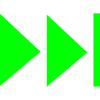
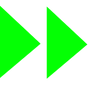
control dock conplete

Changed region(s): [[0.0, 0.0674, 1.0, 0.8989]]

diff --git a/src/gamePlayer/mainClasses/GuiManager.java b/src/gamePlayer/mainClasses/GuiManager.java
@@ -4,14 +4,14 @@ import gameEngine.MainGameManager;
 import gamePlayer.codeWarehouse.SelectTowerListener;
 import gamePlayer.codeWarehouse.StoreListener;
 import gamePlayer.codeWarehouse.TowerPlaceListener;
-import gamePlayer.guiContainers.secondaryContainers.ControlDock;
 import gamePlayer.guiFeatures.FileLoader;
 import gamePlayer.guiFeatures.TowerPlacer;
 import gamePlayer.guiItems.headsUpDisplayB.GameStats;
 import gamePlayer.guiItems.headsUpDisplayB.HUD;
-import gamePlayer.guiItemsListeners.PlayButtonListener;
 import gamePlayer.guiItemsListeners.HUDListener;
 import gamePlayer.guiItemsListeners.HealthListener;
+import gamePlayer.guiItemsListeners.PlayButtonListener;
+import gamePlayer.guiItemsListeners.SpeedButtonListener;
 import gamePlayer.guiItemsListeners.VoogaMenuBarListener;
 import gamePlayer.mainClasses.dummyGameManager.DummyGameManager;
 import gamePlayer.mainClasses.guiBuilder.GuiBuilder;
@@ -32,7 +32,8 @@ import javafx.stage.Stage;
  *
  */
 public class GuiManager implements VoogaMenuBarListener, HUDListener,
-StoreListener, PlayButtonListener, HealthListener, SelectTowerListener, TowerPlaceListener
+StoreListener, PlayButtonListener, HealthListener, SelectTowerListener, TowerPlaceListener,
+SpeedButtonListener
 {
 
     private static final String guiBuilderPropertiesPath = "./src/gamePlayer/properties/GuiBuilderProperties.XML";
@@ -142,6 +143,16 @@ StoreListener, PlayButtonListener, HealthListener, SelectTowerListener, TowerPla
     public void placeTower (double x, double y, String towerName) {
         //myGameManager.makeTower(x, y, towerName);
         System.out.println(x + " " + y);
+    }
+
+    @Override
+    public void normalSpeed () {
+        System.out.println("Normal speed\n");
+    }
+
+    @Override
+    public void fastForward () {
+        System.out.println("Fast forward\n");
     }
 
 }

diff --git a/src/gamePlayer/guiItems/controlDockButtons/ControlDockButton.java b/src/gamePlayer/guiItems/controlDockButtons/ControlDockButton.java
@@ -1,0 +1,47 @@
+package gamePlayer.guiItems.controlDockButtons;
+
+import javafx.geometry.Dimension2D;
+import javafx.scene.control.Button;
+import javafx.scene.image.Image;
+import javafx.scene.image.ImageView;
+import utilities.XMLParsing.XMLParser;
+import gamePlayer.guiItems.GuiItem;
+import gamePlayer.guiItemsListeners.PlayButtonListener;
+import gamePlayer.mainClasses.ExceptionHandling.ExceptionHandler;
+import gamePlayer.mainClasses.guiBuilder.GuiConstants;
+
+public abstract class ControlDockButton implements GuiItem {
+    protected XMLParser myParser;
+    protected ImageView myImageView;
+    protected Button myButton;
+
+    protected Dimension2D buttonSize;
+    protected Dimension2D imageSize;
+
+    
+    
+    protected void setImageviewImage(String path){
+        try {
+            Image newImage = new Image(path);
+            myImageView.setImage(newImage);
+        }
+        catch (NullPointerException npe) {
+            ExceptionHandler.getInstance().handle(npe);
+        }
+    }
+    
+    protected void setUpSizing(Dimension2D containerSize){
+        Dimension2D buttonRatio = myParser.getDimension("SizeRatio");
+        Dimension2D imageRatio = myParser.getDimension("ImageRatio");
+
+        buttonSize = new Dimension2D(buttonRatio.getWidth()*containerSize.getWidth(), 
+                                     buttonRatio.getHeight()*containerSize.getHeight());
+        imageSize = new Dimension2D(imageRatio.getWidth()*buttonSize.getWidth(),
+                                    imageRatio.getHeight()*buttonSize.getHeight());
+
+        myButton.setPrefSize(buttonSize.getWidth(), buttonSize.getHeight());
+        myImageView.setFitHeight(imageSize.getHeight());
+        myImageView.setFitWidth(imageSize.getWidth());
+    }
+    
+}

diff --git a/src/gamePlayer/guiItems/controlDockButtons/buttons/SpeedButton.java b/src/gamePlayer/guiItems/controlDockButtons/buttons/SpeedButton.java
@@ -1,0 +1,51 @@
+package gamePlayer.guiItems.controlDockButtons.buttons;
+
+import gamePlayer.guiItems.controlDockButtons.ControlDockButton;
+import gamePlayer.guiItemsListeners.PlayButtonListener;
+import gamePlayer.guiItemsListeners.SpeedButtonListener;
+import gamePlayer.mainClasses.guiBuilder.GuiConstants;
+import java.io.File;
+import utilities.XMLParsing.XMLParser;
+import javafx.geometry.Dimension2D;
+import javafx.scene.Node;
+import javafx.scene.control.Button;
+import javafx.scene.image.ImageView;
+
+public class SpeedButton extends ControlDockButton {
+    private String ffImage;
+    private String slowImage;
+    private SpeedButtonListener myListener = GuiConstants.GUI_MANAGER;
+
+    @Override
+    public void initialize (Dimension2D containerSize) {
+        myParser = new XMLParser(new File(myPropertiesPath+this.getClass().getSimpleName()+".XML"));
+        myImageView = new ImageView();
+        myButton = new Button();
+
+        ffImage = myParser.getValuesFromTag("FastForwardImage").get(0);
+        slowImage = myParser.getValuesFromTag("SlowDownImage").get(0);
+
+        setUpSizing (containerSize);
+
+        myButton.setOnAction(event -> fastForward());
+        setImageviewImage(ffImage);
+        myButton.setGraphic(myImageView);
+    }
+
+    private void fastForward() {
+        setImageviewImage(slowImage);
+        myListener.fastForward();
+        myButton.setOnAction(event-> normalSpeed());
+    }
+    
+    private void normalSpeed() {
+        setImageviewImage(ffImage);
+        myListener.normalSpeed();
+        myButton.setOnAction(event->fastForward());
+    }
+    
+    @Override
+    public Node getNode () {
+        return myButton;
+    }
+}

diff --git a/src/gamePlayer/guiItems/controlDockButtons/buttons/PlayButton.java b/src/gamePlayer/guiItems/controlDockButtons/buttons/PlayButton.java
@@ -1,0 +1,56 @@
+package gamePlayer.guiItems.controlDockButtons.buttons;
+
+/**
+ * 
+ * @author Greg Lyons
+ * 
+ */
+
+import gamePlayer.guiItems.controlDockButtons.ControlDockButton;
+import gamePlayer.guiItemsListeners.PlayButtonListener;
+import gamePlayer.mainClasses.guiBuilder.GuiConstants;
+import java.io.File;
+import javafx.geometry.Dimension2D;
+import javafx.scene.Node;
+import javafx.scene.control.Button;
+import javafx.scene.image.ImageView;
+import utilities.XMLParsing.XMLParser;
+
+public class PlayButton extends ControlDockButton {
+    private String playImage;
+    private String pauseImage;
+    private PlayButtonListener myListener = GuiConstants.GUI_MANAGER;
+
+    @Override
+    public void initialize(Dimension2D containerSize) {
+        myParser = new XMLParser(new File(myPropertiesPath+this.getClass().getSimpleName()+".XML"));
+        myImageView = new ImageView();
+        myButton = new Button();
+
+        playImage = myParser.getValuesFromTag("PlayImage").get(0);
+        pauseImage = myParser.getValuesFromTag("PauseImage").get(0);
+
+        setUpSizing (containerSize);
+
+        myButton.setOnAction(event -> play());
+        setImageviewImage(playImage);
+        myButton.setGraphic(myImageView);
+    }
+
+    private void play(){
+        setImageviewImage(pauseImage);
+        myButton.setOnAction(event -> pause());
+        myListener.play();
+    }
+
+    private void pause(){
+        setImageviewImage(playImage);
+        myButton.setOnAction(event -> play());
+        myListener.pause();
+    }
+
+    @Override
+    public Node getNode () {
+        return myButton;
+    }
+}

diff --git a/src/gamePlayer/guiItemsListeners/SpeedButtonListener.java b/src/gamePlayer/guiItemsListeners/SpeedButtonListener.java
@@ -2,5 +2,5 @@ package gamePlayer.guiItemsListeners;
 
 public interface SpeedButtonListener {
     public void normalSpeed();
-    public void fastforward();
+    public void fastForward();
 }
